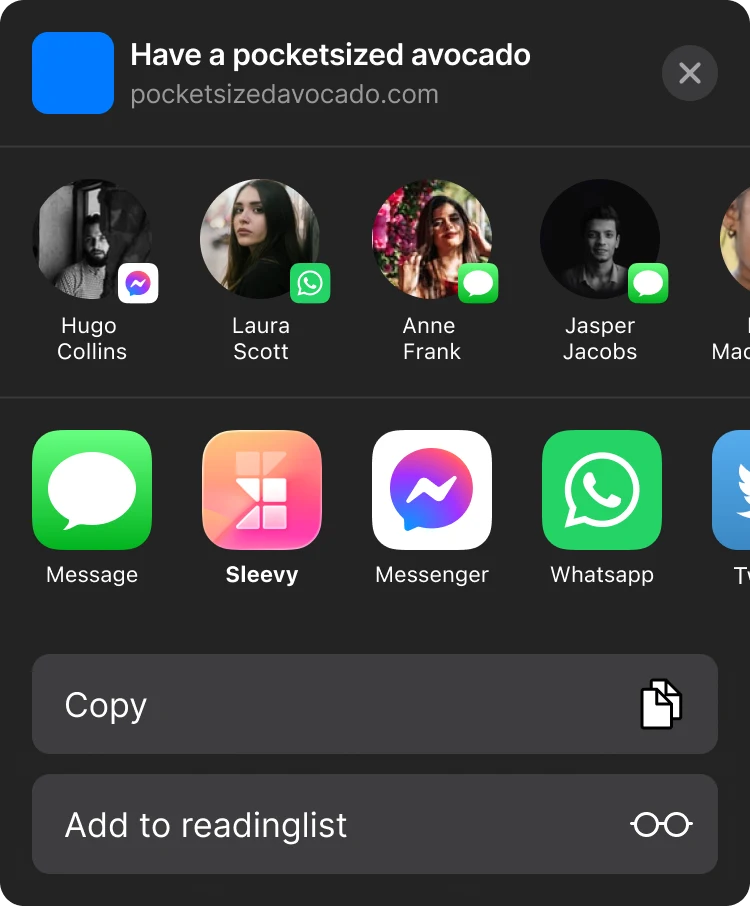
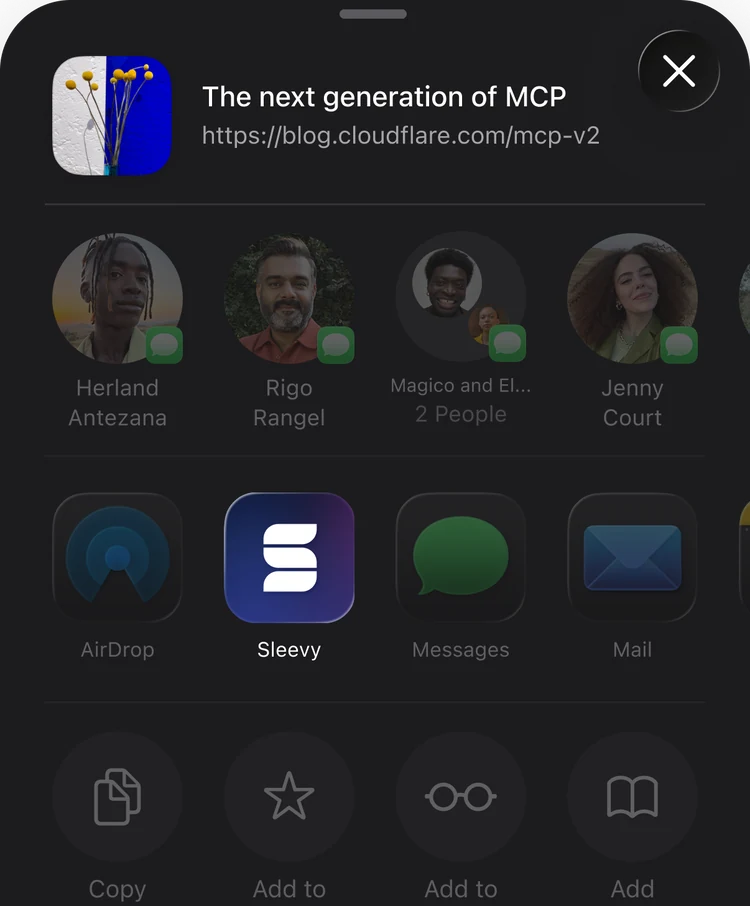
Replace the Native Share shot with the new activity view
Crop the 3x export to the sheet only (1206x1457 of the opaque card) and
scale it to 750x906, the size of the asset it replaces. The crop keeps
the framing of the block: the header, the contacts row and the app row
are visible, and the actions row runs under the blur fade at the bottom
edge of the frame.

Match the border radius of the img to the corner that the export bakes
into the artwork (64px in the 750px asset). The old 12px radius made the
box-shadow, and the hairline border of the proof card, trace a squarer
path than the sheet.

diff --git a/apps/web/src/components/marketing/highlight-section/highlight-section.module.scss b/apps/web/src/components/marketing/highlight-section/highlight-section.module.scss
@@ -109,12 +109,15 @@
   height: auto;
 }
 
+/* The radius matches the sheet's own corner baked into the export (a 64px
+   continuous corner in the 750px-wide asset, so 2.1875rem at this width) —
+   otherwise the box-shadow traces a squarer path than the artwork. */
 .shotShare {
   top: 10rem;
   left: 50%;
   width: 23.4375rem;
   transform: translateX(-50%);
-  border-radius: 0.75rem;
+  border-radius: 2.1875rem;
   box-shadow: 0 4px 12px rgba(0, 0, 0, 0.25);
 }
 

diff --git a/apps/web/src/pages/integration-page.module.scss b/apps/web/src/pages/integration-page.module.scss
@@ -241,6 +241,13 @@
 .proofCardPortrait .proofVisual {
   top: 14rem;
   width: min(66%, 20rem);
+
+  /* The portrait proof is the iOS share sheet, whose own corner is baked into
+     the artwork. Stated as a percentage so it tracks the fluid width; the two
+     values keep the arc circular against the 1.208 aspect ratio. */
+  img {
+    border-radius: 9.33% / 7.72%;
+  }
 }
 
 @media (max-width: 768px) {
